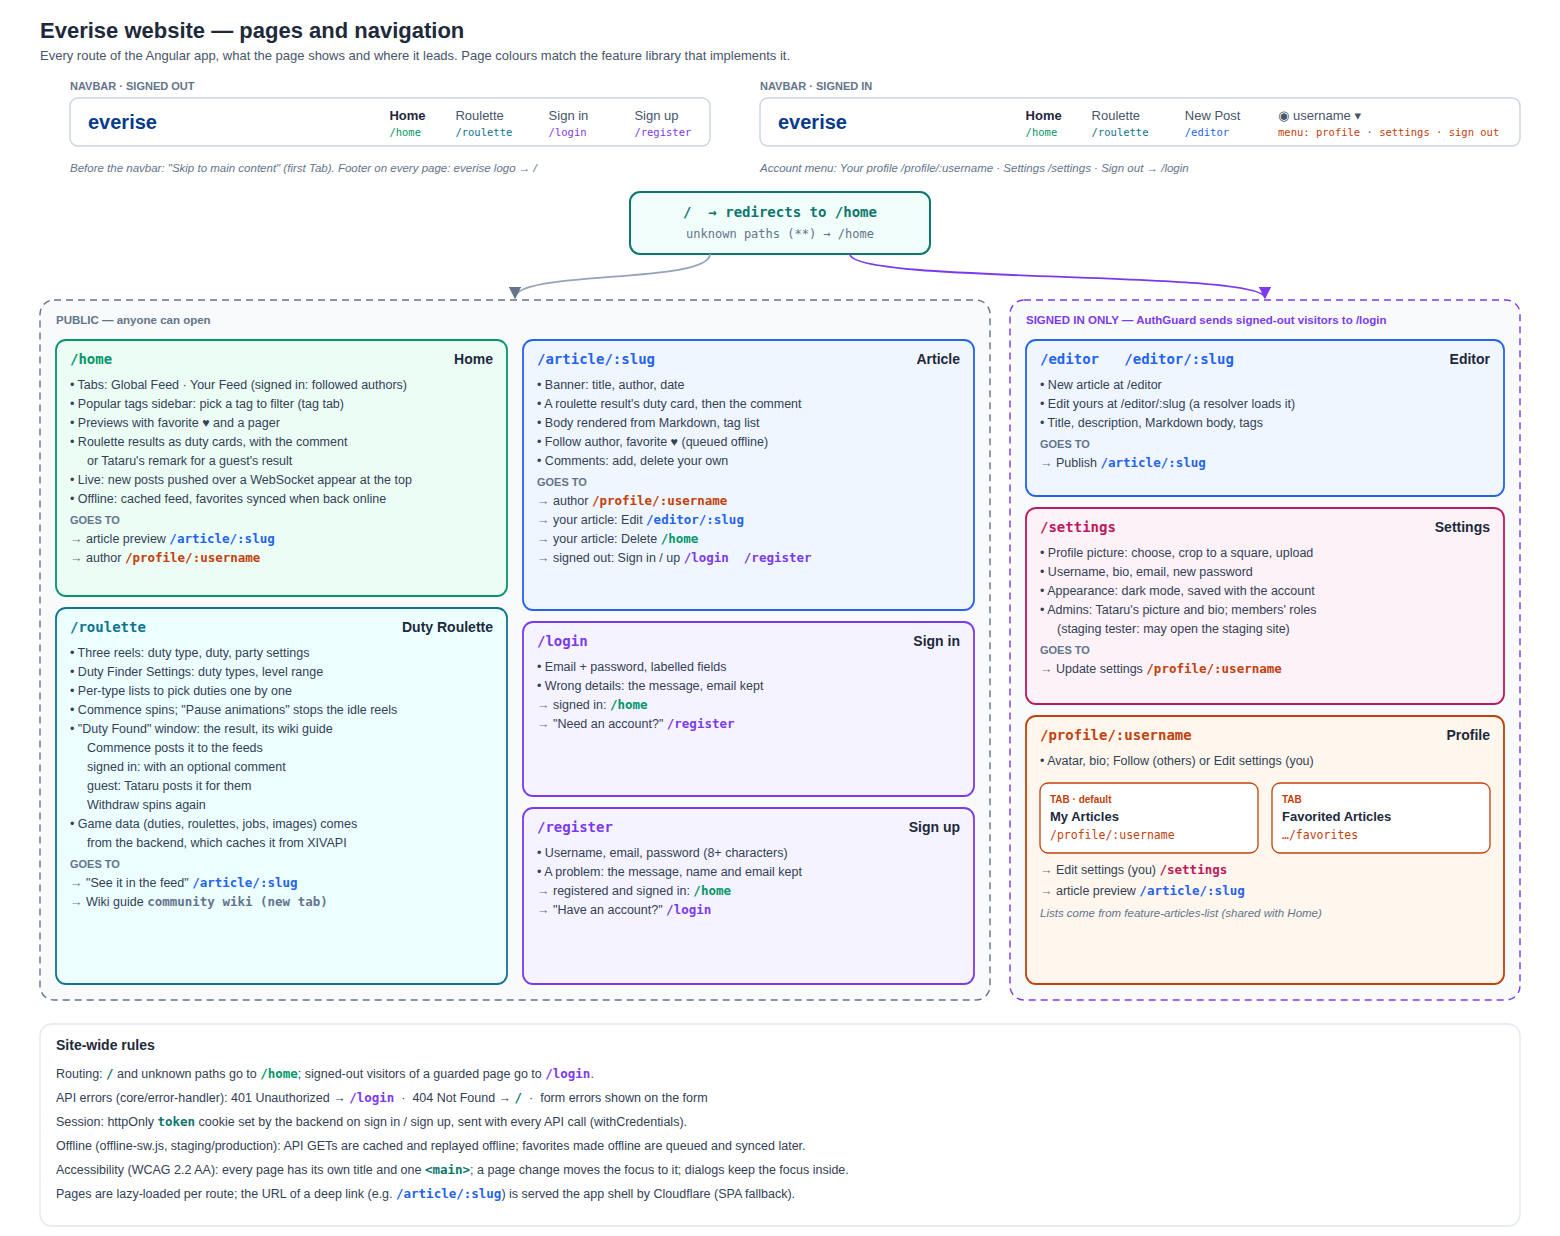
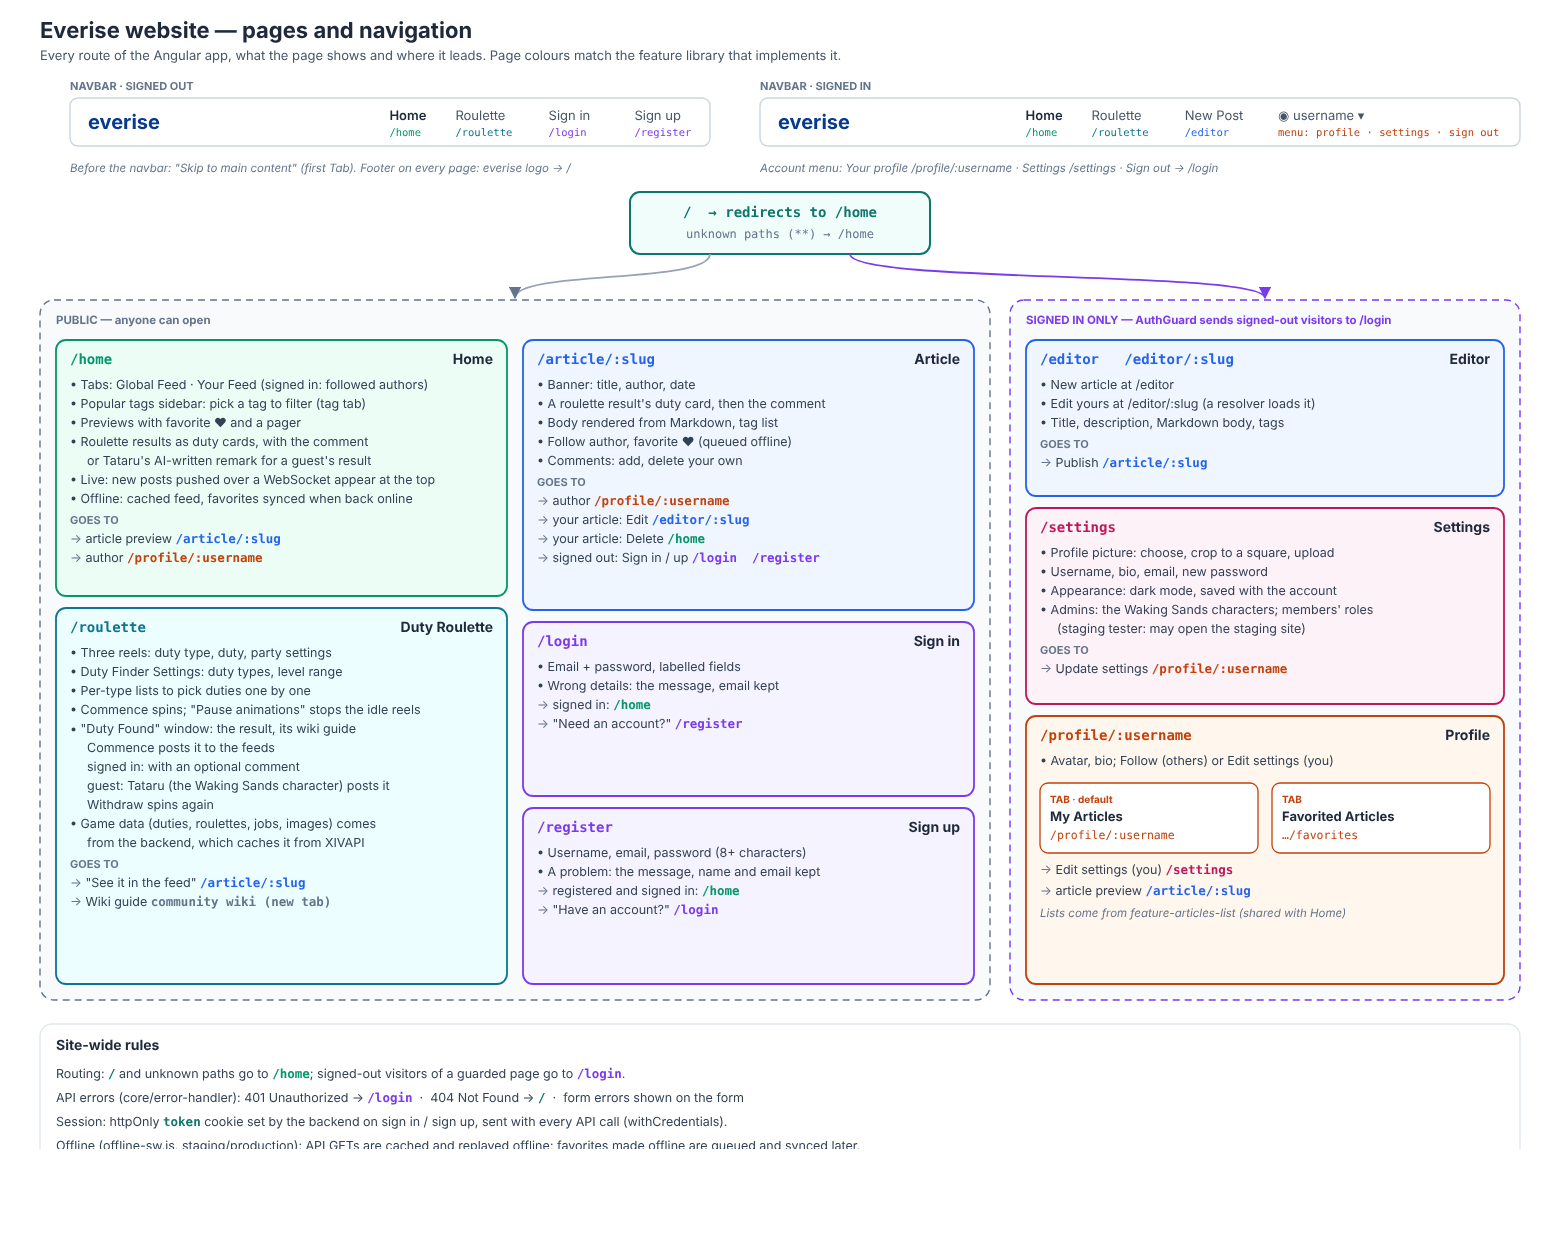
One Tataru: guests' roulette results are posted by the Waking Sands character
Follows the backend, where Tataru is now only the Waking Sands character
and the hidden Tataru account is gone.

- API types regenerated: a post's author may carry `character`; the
  admin Tataru endpoints and the characters' bio are gone.
- A character author's byline leads to the Waking Sands (authorLink),
  and an article by one has no Follow button.
- The admin characters window drops Tataru's bio field.
- The SEO Article data names the Waking Sands as a character's page.
- README and the website diagram describe the new Tataru.

Claude-Session: https://claude.ai/code/session_01ByXmUrQYKP1dz587PmAXFf

diff --git a/libs/settings/feature-settings/src/admin-characters/admin-characters.component.spec.ts b/libs/settings/feature-settings/src/admin-characters/admin-characters.component.spec.ts
@@ -12,7 +12,6 @@ const tataru: CharacterSettings = {
   persona: 'You are Tataru.',
   defaultPersona: 'You are Tataru.',
   image: '/api/profile-images/1',
-  bio: 'Keeper of the books.',
   edited: { title: false, persona: false },
 };
 const barnaby: CharacterSettings = {
@@ -42,26 +41,24 @@ describe('AdminCharactersComponent', () => {
     return { fixture, http, page, tab, field };
   }
 
-  it('has a tab per character, the first one open with its picture, title, bio and personality', async () => {
+  it('has a tab per character, the first one open with its picture, title and personality', async () => {
     const { page, tab, field } = await render();
 
     expect([...page.querySelectorAll('[cdtTab]')].map((t) => t.textContent?.trim())).toEqual(['Tataru', 'Barnaby']);
     expect(tab('Tataru').getAttribute('aria-current')).toBe('true');
     expect((page.querySelector('cdt-avatar img') as HTMLImageElement).alt).toBe("Tataru's picture");
     expect(field('character-title')?.value).toBe('Receptionist');
-    expect(field('character-bio')?.value).toBe('Keeper of the books.');
     expect(field('character-persona')?.value).toBe('You are Tataru.');
     expect(field('character-persona')?.labels?.[0].textContent?.trim()).toBe('Personality');
   });
 
-  it('switches to another character, who has no bio, and can restore their original personality', async () => {
+  it('switches to another character, and can restore their original personality', async () => {
     const { fixture, http, page, tab, field } = await render();
 
     tab('Barnaby').click();
     await fixture.whenStable();
 
     expect(page.querySelector('h3')?.textContent).toBe('Barnaby Bollocksworth');
-    expect(field('character-bio')).toBeNull();
     expect(field('character-persona')?.value).toBe('You are Barnaby, and you swear.');
     const restore = [...page.querySelectorAll('button')].find(
       (b) => b.textContent?.includes('Restore the original'),
@@ -81,7 +78,7 @@ describe('AdminCharactersComponent', () => {
     expect(page.querySelector('.status')?.textContent?.trim()).toBe("Barnaby's original personality is back.");
   });
 
-  it("saves the open character's title, bio and personality", async () => {
+  it("saves the open character's title and personality", async () => {
     const { fixture, http, page, field } = await render();
     const persona = field('character-persona') as HTMLTextAreaElement;
 
@@ -94,7 +91,6 @@ describe('AdminCharactersComponent', () => {
       character: {
         title: 'Receptionist',
         persona: 'You are Tataru, and you charge for everything.',
-        bio: 'Keeper of the books.',
       },
     });
     request.flush({ character: { ...tataru, persona: 'You are Tataru, and you charge for everything.' } });

diff --git a/libs/settings/feature-settings/src/admin-characters/admin-characters.component.ts b/libs/settings/feature-settings/src/admin-characters/admin-characters.component.ts
@@ -18,8 +18,8 @@ import { PICTURE_HINT, checkChosenFile } from '../profile-picture/profile-pictur
 // For admins: the Waking Sands characters, a tab each (AdminCharactersStore).
 // Each has a picture (the same crop window as anyone's), a title and a
 // personality, the description the AI plays them from, which can go back to
-// the original. Tataru's tab also has her bio: she is the account that posts
-// guests' roulette results too.
+// the original. Tataru's also show on the roulette results she posts for
+// guests.
 @Component({
   selector: 'cdt-admin-characters',
   templateUrl: './admin-characters.component.html',
@@ -46,7 +46,6 @@ export class AdminCharactersComponent {
   protected readonly form = new FormGroup({
     title: new FormControl('', { nonNullable: true }),
     persona: new FormControl('', { nonNullable: true }),
-    bio: new FormControl('', { nonNullable: true }),
   });
   // The picture being cropped in the dialog.
   protected readonly cropping = signal<File | null>(null);
@@ -59,15 +58,14 @@ export class AdminCharactersComponent {
     effect(() => {
       const character = this.store.selected();
       if (character) {
-        this.form.setValue({ title: character.title, persona: character.persona, bio: character.bio ?? '' });
+        this.form.setValue({ title: character.title, persona: character.persona });
       }
     });
   }
 
   protected save() {
-    const { title, persona, bio } = this.form.getRawValue();
+    const { title, persona } = this.form.getRawValue();
     const changes: CharacterChanges = { title, persona };
-    if (this.store.selected()?.bio !== undefined) changes.bio = bio;
     this.store.save(changes);
   }
 

diff --git a/worker/seo/article-page.ts b/worker/seo/article-page.ts
@@ -8,7 +8,9 @@ export interface Article {
   body: string;
   createdAt?: string;
   updatedAt?: string;
-  author: { username: string };
+  // `character` on a Waking Sands character (Tataru, who posts guests'
+  // roulette results), who has no profile page.
+  author: { username: string; character?: string };
   roulette?: { type: string; name: string; detail: string; image: number | null };
   // A shared Party Finder listing, with the picture of its card.
   partyFinder?: { picture?: string };
@@ -36,6 +38,9 @@ export function articlePage(article: Article, siteUrl: string): PageMeta {
   // Always the id, even when an old link was followed.
   const path = `/article/${encodeURIComponent(article.id)}`;
   const author = article.author.username;
+  const authorUrl = article.author.character
+    ? `${siteUrl}/waking-sands`
+    : `${siteUrl}/profile/${encodeURIComponent(author)}`;
   return {
     title: `${article.title} · ${SITE_NAME}`,
     description,
@@ -54,7 +59,7 @@ export function articlePage(article: Article, siteUrl: string): PageMeta {
         ...(picture ? { image: [picture] } : {}),
         ...(article.createdAt ? { datePublished: article.createdAt } : {}),
         ...(article.updatedAt ? { dateModified: article.updatedAt } : {}),
-        author: { '@type': 'Person', name: author, url: `${siteUrl}/profile/${encodeURIComponent(author)}` },
+        author: { '@type': 'Person', name: author, url: authorUrl },
         publisher: { '@type': 'Organization', name: SITE_NAME },
       },
     ],

diff --git a/tools/diagrams/website-structure.js b/tools/diagrams/website-structure.js
@@ -225,7 +225,7 @@ page({
     'Popular tags sidebar: pick a tag to filter (tag tab)',
     'Previews with favorite ♥ and a pager',
     'Roulette results as duty cards, with the comment',
-    "  or Tataru's remark for a guest's result",
+    "  or Tataru's AI-written remark for a guest's result",
     'Live: new posts pushed over a WebSocket appear at the top',
     'Offline: cached feed, favorites synced when back online',
     { head: 'GOES TO' },
@@ -253,7 +253,7 @@ page({
     '"Duty Found" window: the result, its wiki guide',
     '  Commence posts it to the feeds',
     '  signed in: with an optional comment',
-    '  guest: Tataru posts it for them',
+    '  guest: Tataru (the Waking Sands character) posts it',
     '  Withdraw spins again',
     'Game data (duties, roulettes, jobs, images) comes',
     '  from the backend, which caches it from XIVAPI',
@@ -361,7 +361,7 @@ page({
     'Profile picture: choose, crop to a square, upload',
     'Username, bio, email, new password',
     'Appearance: dark mode, saved with the account',
-    "Admins: Tataru's picture and bio; members' roles",
+    "Admins: the Waking Sands characters; members' roles",
     '  (staging tester: may open the staging site)',
     { head: 'GOES TO' },
     { to: [['Update settings', '/profile/:username', 'profile']] },

diff --git a/libs/articles/feature-article/src/article-meta/article-meta.component.html b/libs/articles/feature-article/src/article-meta/article-meta.component.html
@@ -3,7 +3,7 @@
     [image]="article().author.image"
     [name]="article().author.username"
     [date]="article().createdAt"
-    [link]="['/profile', article().author.id]"
+    [link]="authorLink(article().author)"
     avatarTestId="article-author"
   />
 
@@ -18,15 +18,18 @@
   </span>
 
   <span [hidden]="canModify()">
-    <button
-      [cdtButton]="article().author.following ? 'secondary' : 'outline-secondary'"
-      size="sm"
-      (click)="toggleFollow()"
-    >
-      <cdt-icon name="plus" />
-      {{ article().author.following ? 'Unfollow' : 'Follow' }}
-      {{ article().author.username }}
-    </button>
+    <!-- A character (Tataru, on guests' roulette results) isn't a member: nobody follows them. -->
+    @if (!article().author.character) {
+      <button
+        [cdtButton]="article().author.following ? 'secondary' : 'outline-secondary'"
+        size="sm"
+        (click)="toggleFollow()"
+      >
+        <cdt-icon name="plus" />
+        {{ article().author.following ? 'Unfollow' : 'Follow' }}
+        {{ article().author.username }}
+      </button>
+    }
     <button [cdtButton]="article().favorited ? 'primary' : 'outline-primary'" size="sm" (click)="toggleFavorite()">
       <cdt-icon name="heart" />
       {{ article().favorited ? 'Unfavorite' : 'Favorite' }} Post

diff --git a/libs/settings/feature-settings/src/admin-characters/admin-characters.component.html b/libs/settings/feature-settings/src/admin-characters/admin-characters.component.html
@@ -1,7 +1,7 @@
 <cdt-panel heading="Waking Sands characters">
   <p class="intro">
     Who members can talk to in the Waking Sands. The personality tells the AI who a character is and how they talk;
-    Tataru's bio is also her profile's, on the roulette results she posts for guests.
+    Tataru's picture and title also show on the roulette results she posts for guests.
   </p>
 
   @if (store.characters(); as characters) {
@@ -53,12 +53,6 @@
           <input id="character-title" cdtInput formControlName="title" [attr.maxlength]="store.limits()?.title" />
         </cdt-field>
         <p class="hint field-hint">Under the name in the Waking Sands. Empty goes back to the original.</p>
-
-        @if (character.bio !== undefined) {
-          <cdt-field label="Bio" for="character-bio">
-            <textarea id="character-bio" cdtInput rows="3" formControlName="bio"></textarea>
-          </cdt-field>
-        }
 
         <cdt-field label="Personality" for="character-persona">
           <textarea

diff --git a/worker/seo/seo.spec.ts b/worker/seo/seo.spec.ts
@@ -192,4 +192,23 @@ describe('static and post pages', () => {
       }),
     );
   });
+
+  it('a guest roulette result Tataru posted names the Waking Sands as her page, not a profile', () => {
+    const page = articlePage(
+      {
+        id: 'post-3',
+        title: 'Duty Found: Sastasha',
+        description: 'Dungeons · Regular',
+        body: "That'll be 500 gil.",
+        author: { username: 'Tataru Taru', character: 'tataru' },
+      },
+      SITE,
+    );
+
+    expect(page.jsonLd).toContainEqual(
+      expect.objectContaining({
+        author: { '@type': 'Person', name: 'Tataru Taru', url: 'https://everise.dev/waking-sands' },
+      }),
+    );
+  });
 });

diff --git a/libs/articles/feature-articles-list/src/article-list-item/article-list-item.component.ts b/libs/articles/feature-articles-list/src/article-list-item/article-list-item.component.ts
@@ -1,5 +1,6 @@
 import { Component, ChangeDetectionStrategy, output, input, inject } from '@angular/core';
 import { RouterModule } from '@angular/router';
+import { authorLink } from '@everise/articles/data-access';
 import { Article } from '@everise/core/api-types';
 import { API_URL, gameImageUrl } from '@everise/core/http-client';
 import {
@@ -32,6 +33,7 @@ export class ArticleListItemComponent {
   favorite = output<string>();
   unFavorite = output<string>();
 
+  protected readonly authorLink = authorLink;
   private readonly apiUrl = inject(API_URL);
   // A shared listing's time left, from when the feed showed it.
   protected readonly now = Date.now();

diff --git a/libs/articles/feature-article/src/article-meta/article-meta.component.ts b/libs/articles/feature-article/src/article-meta/article-meta.component.ts
@@ -1,5 +1,6 @@
 import { Component, ChangeDetectionStrategy, input, output } from '@angular/core';
 import { RouterModule } from '@angular/router';
+import { authorLink } from '@everise/articles/data-access';
 import { Article } from '@everise/core/api-types';
 import { ButtonComponent, BylineComponent, IconComponent } from '@everise/ui/components';
 @Component({
@@ -17,6 +18,8 @@ export class ArticleMetaComponent {
   unfavorite = output<string>();
   favorite = output<string>();
   delete = output<string>();
+
+  protected readonly authorLink = authorLink;
 
   toggleFavorite() {
     if (this.article().favorited) {

diff --git a/libs/articles/data-access/src/author-link.spec.ts b/libs/articles/data-access/src/author-link.spec.ts
@@ -1,0 +1,16 @@
+import { Profile } from '@everise/core/api-types';
+import { authorLink } from './author-link';
+
+const member: Profile = { id: 'm-1', username: 'Minfilia', following: false, bio: null, image: '/a.png' };
+
+describe('authorLink', () => {
+  it("leads to a member's profile", () => {
+    expect(authorLink(member)).toEqual(['/profile', 'm-1']);
+  });
+
+  it('leads to the Waking Sands for a character, who has no profile', () => {
+    expect(authorLink({ ...member, id: 'character:tataru', username: 'Tataru Taru', character: 'tataru' })).toEqual([
+      '/waking-sands',
+    ]);
+  });
+});

diff --git a/libs/settings/data-access/src/admin-characters.store.ts b/libs/settings/data-access/src/admin-characters.store.ts
@@ -19,8 +19,8 @@ interface AdminCharactersState {
 }
 
 // For admins: the Waking Sands characters, one open at a time, with their
-// title, personality (which can go back to the original), picture, and
-// Tataru's bio. Provided by the admin's characters window.
+// title, personality (which can go back to the original) and picture.
+// Provided by the admin's characters window.
 export const AdminCharactersStore = signalStore(
   withState<AdminCharactersState>({
     characters: null,

diff --git a/libs/core/api-types/src/lib/admin.ts b/libs/core/api-types/src/lib/admin.ts
@@ -22,7 +22,7 @@ export type MemberDeletedResponse = Schemas['MemberDeletionResponse'];
 export type StagingAccessResponse = Schemas['StagingAccessResponse'];
 
 // A Waking Sands character as admins edit it: the shipped personality
-// (defaultPersona) with the admin's changes. Only Tataru has a bio.
+// (defaultPersona) with the admin's changes.
 export type CharacterSettings = Schemas['AdminCharacter'];
 
 // The characters, and the longest title and personality the forms allow.
